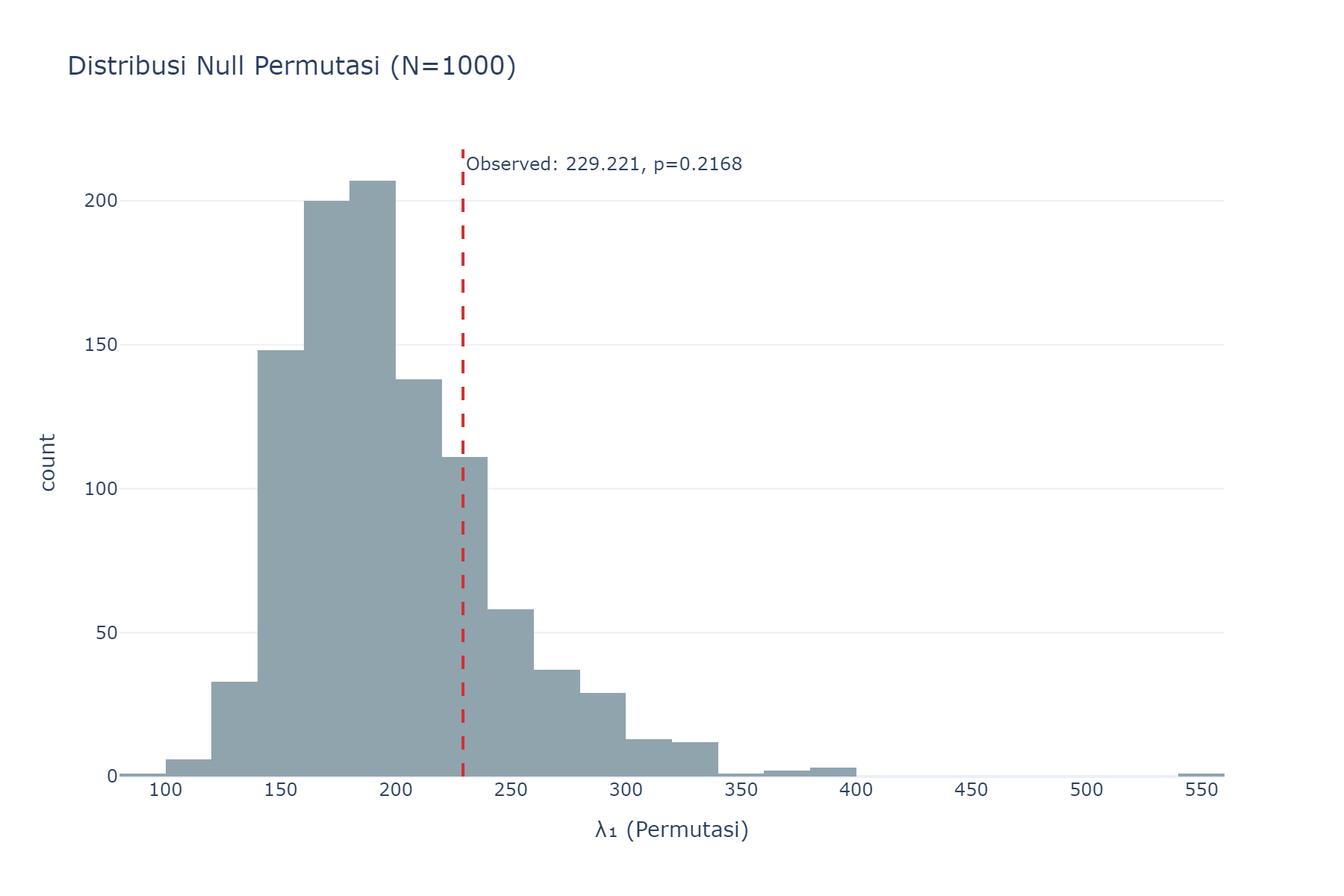
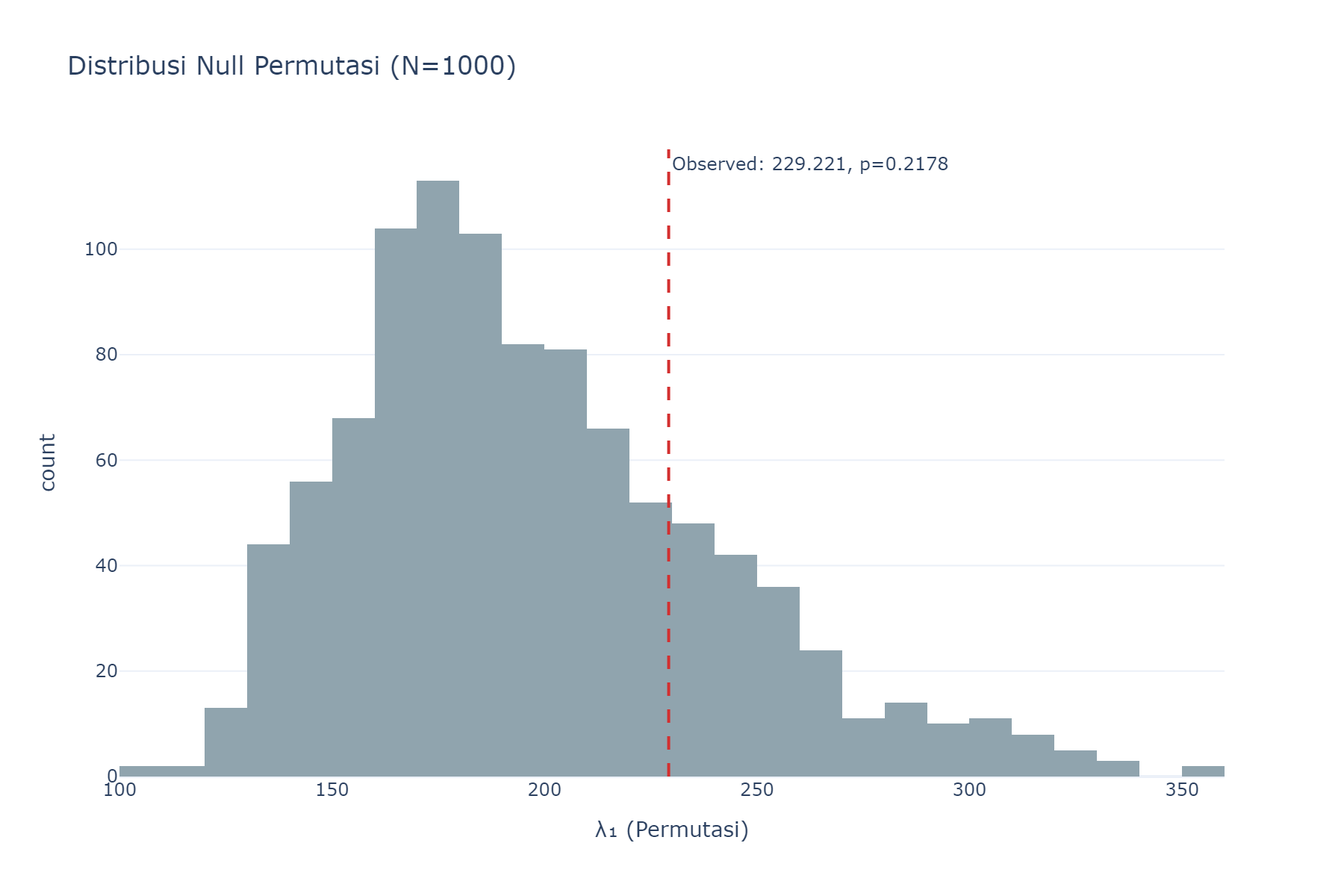
Fix descriptive cluster names

diff --git a/landing-page/public/output_real/output_table_deskriptif_2020.tex b/landing-page/public/output_real/output_table_deskriptif_2020.tex
@@ -4,19 +4,19 @@
 \hline
 \textbf{Variabel} & \textbf{N} & \textbf{Mean ($\mu$)} & \textbf{Std Dev ($\sigma$)} & \textbf{Min} & \textbf{Q1} & \textbf{Median} & \textbf{Q3} & \textbf{Max} & \textbf{Skew ($\gamma_1$)} & \textbf{Kurt ($\gamma_2$)} & \textbf{CV} \\
 \hline
-TPAK & 41 & 64.5890 & 3.8263 & 55.7400 & 61.9800 & 63.8100 & 66.5400 & 76.7900 & 0.7602 & 1.3035 & 5.9200 \\
-GK & 41 & 470618.29 & 123776.23 & 310437.00 & 362212.00 & 457954.00 & 547415.00 & 782731.00 & 0.6325 & -0.6175 & 26.3000 \\
-IPM & 41 & 72.8971 & 5.7902 & 63.9100 & 68.0800 & 71.7000 & 77.8300 & 84.7200 & 0.4383 & -0.9747 & 7.9400 \\
-AHH\_P & 41 & 73.4278 & 2.4925 & 66.5000 & 72.8700 & 74.0200 & 75.4200 & 76.7100 & -1.2048 & 1.1055 & 3.3900 \\
 PDRB\_ADHK & 41 & 90668.15 & 115779.62 & 3251.76 & 21970.41 & 38598.43 & 93480.39 & 449518.14 & 1.8010 & 2.1881 & 127.70 \\
-RLS & 41 & 8.9244 & 1.6521 & 6.3000 & 7.5200 & 8.6300 & 10.6300 & 11.8100 & 0.2849 & -1.2277 & 18.5100 \\
+TPT & 41 & 10.1232 & 2.1864 & 5.0800 & 8.9500 & 10.6800 & 11.5400 & 14.2900 & -0.4590 & -0.3509 & 21.6000 \\
 PPM & 41 & 7.6356 & 3.1440 & 2.2900 & 4.9400 & 7.6200 & 9.9800 & 14.8700 & 0.2597 & -0.7499 & 41.1800 \\
 AHH\_L & 41 & 69.6368 & 2.5761 & 62.6800 & 69.0300 & 70.2500 & 71.7200 & 73.2200 & -1.1209 & 0.8502 & 3.7000 \\
-GR & 41 & 0.3592 & 0.0362 & 0.2850 & 0.3360 & 0.3520 & 0.3810 & 0.4270 & 0.0668 & -0.7740 & 10.0700 \\
-JP & 41 & 1432347.14 & 1243018.59 & 433.76 & 332580.00 & 1226050.00 & 2434090.00 & 5409370.00 & 0.7879 & 0.6833 & 86.7800 \\
-TPT & 41 & 10.1232 & 2.1864 & 5.0800 & 8.9500 & 10.6800 & 11.5400 & 14.2900 & -0.4590 & -0.3509 & 21.6000 \\
-IPG & 41 & 89.9871 & 4.4168 & 79.0600 & 86.8100 & 90.9800 & 93.5300 & 96.1400 & -0.6283 & -0.2917 & 4.9100 \\
+IPM & 41 & 72.8971 & 5.7902 & 63.9100 & 68.0800 & 71.7000 & 77.8300 & 84.7200 & 0.4383 & -0.9747 & 7.9400 \\
+AHH\_P & 41 & 73.4278 & 2.4925 & 66.5000 & 72.8700 & 74.0200 & 75.4200 & 76.7100 & -1.2048 & 1.1055 & 3.3900 \\
 PKKP & 41 & 3.3263 & 1.3218 & 1.2600 & 2.1800 & 3.6000 & 4.2800 & 5.6400 & -0.0754 & -1.2654 & 39.7400 \\
+GR & 41 & 0.3592 & 0.0362 & 0.2850 & 0.3360 & 0.3520 & 0.3810 & 0.4270 & 0.0668 & -0.7740 & 10.0700 \\
+GK & 41 & 470618.29 & 123776.23 & 310437.00 & 362212.00 & 457954.00 & 547415.00 & 782731.00 & 0.6325 & -0.6175 & 26.3000 \\
+JP & 41 & 1432347.14 & 1243018.59 & 433.76 & 332580.00 & 1226050.00 & 2434090.00 & 5409370.00 & 0.7879 & 0.6833 & 86.7800 \\
+IPG & 41 & 89.9871 & 4.4168 & 79.0600 & 86.8100 & 90.9800 & 93.5300 & 96.1400 & -0.6283 & -0.2917 & 4.9100 \\
+TPAK & 41 & 64.5890 & 3.8263 & 55.7400 & 61.9800 & 63.8100 & 66.5400 & 76.7900 & 0.7602 & 1.3035 & 5.9200 \\
+RLS & 41 & 8.9244 & 1.6521 & 6.3000 & 7.5200 & 8.6300 & 10.6300 & 11.8100 & 0.2849 & -1.2277 & 18.5100 \\
 \hline
 \end{tabular}
 \end{adjustbox}

diff --git a/landing-page/public/output_real/output_table_deskriptif_2021.tex b/landing-page/public/output_real/output_table_deskriptif_2021.tex
@@ -4,19 +4,19 @@
 \hline
 \textbf{Variabel} & \textbf{N} & \textbf{Mean ($\mu$)} & \textbf{Std Dev ($\sigma$)} & \textbf{Min} & \textbf{Q1} & \textbf{Median} & \textbf{Q3} & \textbf{Max} & \textbf{Skew ($\gamma_1$)} & \textbf{Kurt ($\gamma_2$)} & \textbf{CV} \\
 \hline
-TPAK & 41 & 64.4712 & 3.1615 & 56.8600 & 62.5500 & 64.0700 & 65.7900 & 74.7500 & 0.7324 & 1.5994 & 4.9000 \\
-GK & 41 & 486788.61 & 125953.29 & 320050.00 & 378819.00 & 467248.00 & 570330.00 & 792684.00 & 0.5875 & -0.7418 & 25.8700 \\
-IPM & 41 & 73.1805 & 5.8237 & 64.0300 & 68.2900 & 72.1000 & 78.0600 & 84.9000 & 0.4213 & -0.9879 & 7.9600 \\
-AHH\_P & 41 & 73.5822 & 2.4979 & 66.6100 & 73.0800 & 74.2100 & 75.5200 & 76.8900 & -1.2313 & 1.1623 & 3.3900 \\
 PDRB\_ADHK & 41 & 155753.21 & 399617.71 & 3365.25 & 23275.78 & 46840.15 & 106413.70 & 2538923.00 & 5.3713 & 29.4361 & 256.57 \\
-RLS & 41 & 9.0273 & 1.6651 & 6.4100 & 7.5300 & 8.7700 & 10.7800 & 11.8200 & 0.2434 & -1.3084 & 18.4400 \\
+TPT & 41 & 9.1959 & 2.0599 & 3.2500 & 8.2300 & 9.3200 & 10.5800 & 13.0700 & -0.6333 & 0.4640 & 22.4000 \\
 PPM & 41 & 8.1639 & 3.2327 & 2.5700 & 5.3500 & 7.9700 & 10.7100 & 15.0600 & 0.1144 & -0.9312 & 39.6000 \\
 AHH\_L & 41 & 69.8390 & 2.6025 & 62.8200 & 69.2700 & 70.5000 & 71.9400 & 73.4800 & -1.1514 & 0.8882 & 3.7300 \\
-GR & 41 & 0.3647 & 0.0535 & 0.2450 & 0.3400 & 0.3630 & 0.3880 & 0.5150 & 0.3782 & 1.0149 & 14.6800 \\
-JP & 41 & 1447714.39 & 1257547.59 & 439.48 & 335810.00 & 1234830.00 & 2446687.00 & 5484150.00 & 0.7956 & 0.7128 & 86.8600 \\
-TPT & 41 & 9.1959 & 2.0599 & 3.2500 & 8.2300 & 9.3200 & 10.5800 & 13.0700 & -0.6333 & 0.4640 & 22.4000 \\
-IPG & 41 & 90.0432 & 4.4084 & 79.0700 & 86.9700 & 90.8700 & 93.6000 & 96.2800 & -0.6450 & -0.2436 & 4.9000 \\
+IPM & 41 & 73.1805 & 5.8237 & 64.0300 & 68.2900 & 72.1000 & 78.0600 & 84.9000 & 0.4213 & -0.9879 & 7.9600 \\
+AHH\_P & 41 & 73.5822 & 2.4979 & 66.6100 & 73.0800 & 74.2100 & 75.5200 & 76.8900 & -1.2313 & 1.1623 & 3.3900 \\
 PKKP & 41 & 3.8829 & 1.5390 & 1.5500 & 2.4600 & 3.8700 & 5.0000 & 7.1200 & 0.1816 & -1.1459 & 39.6400 \\
+GR & 41 & 0.3647 & 0.0535 & 0.2450 & 0.3400 & 0.3630 & 0.3880 & 0.5150 & 0.3782 & 1.0149 & 14.6800 \\
+GK & 41 & 486788.61 & 125953.29 & 320050.00 & 378819.00 & 467248.00 & 570330.00 & 792684.00 & 0.5875 & -0.7418 & 25.8700 \\
+JP & 41 & 1447714.39 & 1257547.59 & 439.48 & 335810.00 & 1234830.00 & 2446687.00 & 5484150.00 & 0.7956 & 0.7128 & 86.8600 \\
+IPG & 41 & 90.0432 & 4.4084 & 79.0700 & 86.9700 & 90.8700 & 93.6000 & 96.2800 & -0.6450 & -0.2436 & 4.9000 \\
+TPAK & 41 & 64.4712 & 3.1615 & 56.8600 & 62.5500 & 64.0700 & 65.7900 & 74.7500 & 0.7324 & 1.5994 & 4.9000 \\
+RLS & 41 & 9.0273 & 1.6651 & 6.4100 & 7.5300 & 8.7700 & 10.7800 & 11.8200 & 0.2434 & -1.3084 & 18.4400 \\
 \hline
 \end{tabular}
 \end{adjustbox}

diff --git a/landing-page/public/output_real/output_table_deskriptif_2022.tex b/landing-page/public/output_real/output_table_deskriptif_2022.tex
@@ -4,19 +4,19 @@
 \hline
 \textbf{Variabel} & \textbf{N} & \textbf{Mean ($\mu$)} & \textbf{Std Dev ($\sigma$)} & \textbf{Min} & \textbf{Q1} & \textbf{Median} & \textbf{Q3} & \textbf{Max} & \textbf{Skew ($\gamma_1$)} & \textbf{Kurt ($\gamma_2$)} & \textbf{CV} \\
 \hline
-TPAK & 41 & 65.7398 & 3.3700 & 58.6700 & 63.7600 & 65.4100 & 67.3900 & 79.9200 & 1.6307 & 5.9805 & 5.1300 \\
-GK & 41 & 512333.02 & 135320.99 & 335134.00 & 398884.00 & 485613.00 & 599514.00 & 842630.00 & 0.5993 & -0.7304 & 26.4100 \\
-IPM & 41 & 73.8166 & 5.7278 & 64.7100 & 69.0400 & 72.7900 & 78.7700 & 85.2100 & 0.4127 & -0.9878 & 7.7600 \\
-AHH\_P & 41 & 73.8912 & 2.4709 & 67.0300 & 73.3700 & 74.5000 & 75.8100 & 77.1800 & -1.2024 & 1.1051 & 3.3400 \\
 PDRB\_ADHK & 41 & 156900.90 & 377811.63 & 3516.57 & 24495.02 & 49292.98 & 112778.10 & 2383665.00 & 5.1936 & 27.9588 & 240.80 \\
-RLS & 41 & 9.1566 & 1.6423 & 6.5900 & 7.8300 & 8.9000 & 10.8200 & 11.8400 & 0.2314 & -1.3538 & 17.9400 \\
+TPT & 41 & 7.8156 & 2.0233 & 1.5600 & 6.9800 & 8.1000 & 8.8300 & 10.7800 & -0.9149 & 0.9909 & 25.8900 \\
 PPM & 41 & 7.8027 & 3.0997 & 2.5000 & 5.0100 & 7.7200 & 10.1400 & 14.1100 & 0.1383 & -0.9442 & 39.7300 \\
 AHH\_L & 41 & 70.0607 & 2.5716 & 63.1700 & 69.5000 & 70.6900 & 72.1400 & 73.7000 & -1.1122 & 0.8040 & 3.6700 \\
-GR & 41 & 0.3658 & 0.0618 & 0.2110 & 0.3180 & 0.3670 & 0.3940 & 0.5430 & 0.3696 & 0.8754 & 16.8800 \\
-JP & 41 & 1462414.00 & 1271595.59 & 445.06 & 338940.00 & 1243320.00 & 2458707.00 & 5556310.00 & 0.8032 & 0.7413 & 86.9500 \\
-TPT & 41 & 7.8156 & 2.0233 & 1.5600 & 6.9800 & 8.1000 & 8.8300 & 10.7800 & -0.9149 & 0.9909 & 25.8900 \\
-IPG & 41 & 90.3415 & 4.3112 & 79.6900 & 87.1700 & 90.9700 & 93.8400 & 96.4800 & -0.6361 & -0.2386 & 4.7700 \\
+IPM & 41 & 73.8166 & 5.7278 & 64.7100 & 69.0400 & 72.7900 & 78.7700 & 85.2100 & 0.4127 & -0.9878 & 7.7600 \\
+AHH\_P & 41 & 73.8912 & 2.4709 & 67.0300 & 73.3700 & 74.5000 & 75.8100 & 77.1800 & -1.2024 & 1.1051 & 3.3400 \\
 PKKP & 41 & 5.5502 & 2.4961 & 1.5000 & 3.4500 & 5.7700 & 7.4300 & 10.4500 & 0.0747 & -1.1068 & 44.9700 \\
+GR & 41 & 0.3658 & 0.0618 & 0.2110 & 0.3180 & 0.3670 & 0.3940 & 0.5430 & 0.3696 & 0.8754 & 16.8800 \\
+GK & 41 & 512333.02 & 135320.99 & 335134.00 & 398884.00 & 485613.00 & 599514.00 & 842630.00 & 0.5993 & -0.7304 & 26.4100 \\
+JP & 41 & 1462414.00 & 1271595.59 & 445.06 & 338940.00 & 1243320.00 & 2458707.00 & 5556310.00 & 0.8032 & 0.7413 & 86.9500 \\
+IPG & 41 & 90.3415 & 4.3112 & 79.6900 & 87.1700 & 90.9700 & 93.8400 & 96.4800 & -0.6361 & -0.2386 & 4.7700 \\
+TPAK & 41 & 65.7398 & 3.3700 & 58.6700 & 63.7600 & 65.4100 & 67.3900 & 79.9200 & 1.6307 & 5.9805 & 5.1300 \\
+RLS & 41 & 9.1566 & 1.6423 & 6.5900 & 7.8300 & 8.9000 & 10.8200 & 11.8400 & 0.2314 & -1.3538 & 17.9400 \\
 \hline
 \end{tabular}
 \end{adjustbox}

diff --git a/landing-page/public/output_real/output_table_deskriptif_2023.tex b/landing-page/public/output_real/output_table_deskriptif_2023.tex
@@ -4,19 +4,19 @@
 \hline
 \textbf{Variabel} & \textbf{N} & \textbf{Mean ($\mu$)} & \textbf{Std Dev ($\sigma$)} & \textbf{Min} & \textbf{Q1} & \textbf{Median} & \textbf{Q3} & \textbf{Max} & \textbf{Skew ($\gamma_1$)} & \textbf{Kurt ($\gamma_2$)} & \textbf{CV} \\
 \hline
-TPAK & 41 & 66.3559 & 3.6273 & 60.3300 & 63.9800 & 66.1600 & 67.9000 & 80.1500 & 1.3791 & 3.6110 & 5.4700 \\
-GK & 41 & 553569.61 & 143549.03 & 367681.00 & 426355.00 & 520713.00 & 657247.00 & 891580.00 & 0.5879 & -0.7939 & 25.9300 \\
-IPM & 41 & 74.4183 & 5.6976 & 65.2100 & 69.6100 & 73.3900 & 79.4600 & 86.0700 & 0.4201 & -0.9571 & 7.6600 \\
-AHH\_P & 41 & 74.3205 & 2.4367 & 67.5600 & 73.7800 & 74.9700 & 76.2000 & 77.4500 & -1.2365 & 1.1126 & 3.2800 \\
 PDRB\_ADHK & 41 & 104051.93 & 132473.27 & 3305.13 & 25655.25 & 44087.22 & 108569.80 & 506560.70 & 1.7652 & 2.0079 & 127.31 \\
-RLS & 41 & 9.2263 & 1.6469 & 6.6000 & 7.8900 & 8.9100 & 10.8400 & 11.8800 & 0.2655 & -1.3451 & 17.8500 \\
+TPT & 41 & 7.2041 & 1.7690 & 1.5200 & 6.5200 & 7.3300 & 8.1100 & 10.5200 & -0.9574 & 1.5426 & 24.5600 \\
 PPM & 41 & 7.4420 & 2.8862 & 2.3800 & 4.8500 & 7.2700 & 9.5200 & 13.1300 & 0.0826 & -0.9921 & 38.7800 \\
 AHH\_L & 41 & 70.4171 & 2.5132 & 63.7000 & 69.7900 & 70.9300 & 72.5000 & 74.1000 & -1.0287 & 0.7650 & 3.5700 \\
-GR & 41 & 0.3739 & 0.0552 & 0.2430 & 0.3420 & 0.3690 & 0.4280 & 0.4680 & -0.2663 & -0.4264 & 14.7600 \\
-JP & 41 & 1476700.92 & 1285310.11 & 450.51 & 341980.00 & 1251540.00 & 2470054.00 & 5627020.00 & 0.8107 & 0.7696 & 87.0400 \\
-TPT & 41 & 7.2041 & 1.7690 & 1.5200 & 6.5200 & 7.3300 & 8.1100 & 10.5200 & -0.9574 & 1.5426 & 24.5600 \\
-IPG & 41 & 90.5937 & 4.2094 & 80.3700 & 87.3100 & 91.2900 & 94.0300 & 97.1600 & -0.6001 & -0.2853 & 4.6500 \\
+IPM & 41 & 74.4183 & 5.6976 & 65.2100 & 69.6100 & 73.3900 & 79.4600 & 86.0700 & 0.4201 & -0.9571 & 7.6600 \\
+AHH\_P & 41 & 74.3205 & 2.4367 & 67.5600 & 73.7800 & 74.9700 & 76.2000 & 77.4500 & -1.2365 & 1.1126 & 3.2800 \\
 PKKP & 41 & 4.6354 & 1.9005 & 1.5800 & 2.9100 & 5.0700 & 5.9800 & 8.6500 & 0.0616 & -1.0247 & 41.0000 \\
+GR & 41 & 0.3739 & 0.0552 & 0.2430 & 0.3420 & 0.3690 & 0.4280 & 0.4680 & -0.2663 & -0.4264 & 14.7600 \\
+GK & 41 & 553569.61 & 143549.03 & 367681.00 & 426355.00 & 520713.00 & 657247.00 & 891580.00 & 0.5879 & -0.7939 & 25.9300 \\
+JP & 41 & 1476700.92 & 1285310.11 & 450.51 & 341980.00 & 1251540.00 & 2470054.00 & 5627020.00 & 0.8107 & 0.7696 & 87.0400 \\
+IPG & 41 & 90.5937 & 4.2094 & 80.3700 & 87.3100 & 91.2900 & 94.0300 & 97.1600 & -0.6001 & -0.2853 & 4.6500 \\
+TPAK & 41 & 66.3559 & 3.6273 & 60.3300 & 63.9800 & 66.1600 & 67.9000 & 80.1500 & 1.3791 & 3.6110 & 5.4700 \\
+RLS & 41 & 9.2263 & 1.6469 & 6.6000 & 7.8900 & 8.9100 & 10.8400 & 11.8800 & 0.2655 & -1.3451 & 17.8500 \\
 \hline
 \end{tabular}
 \end{adjustbox}

diff --git a/landing-page/public/output_real/output_table_deskriptif_2024.tex b/landing-page/public/output_real/output_table_deskriptif_2024.tex
@@ -4,19 +4,19 @@
 \hline
 \textbf{Variabel} & \textbf{N} & \textbf{Mean ($\mu$)} & \textbf{Std Dev ($\sigma$)} & \textbf{Min} & \textbf{Q1} & \textbf{Median} & \textbf{Q3} & \textbf{Max} & \textbf{Skew ($\gamma_1$)} & \textbf{Kurt ($\gamma_2$)} & \textbf{CV} \\
 \hline
-TPAK & 41 & 67.4144 & 3.6875 & 58.1300 & 65.5800 & 67.2200 & 69.1000 & 80.1200 & 0.6115 & 2.5208 & 5.4700 \\
-GK & 41 & 583233.61 & 148452.42 & 393464.00 & 455636.00 & 547912.00 & 685071.00 & 928278.00 & 0.5936 & -0.7922 & 25.4500 \\
-IPM & 41 & 74.9951 & 5.6926 & 65.8600 & 70.0300 & 73.9900 & 80.0200 & 86.9400 & 0.4290 & -0.9383 & 7.5900 \\
-AHH\_P & 41 & 74.5900 & 2.4500 & 67.7800 & 74.0400 & 75.2900 & 76.4200 & 77.7500 & -1.2313 & 1.0489 & 3.2800 \\
 PDRB\_ADHK & 41 & 109134.55 & 139071.46 & 3268.50 & 26863.08 & 46270.92 & 113998.20 & 532606.90 & 1.7693 & 2.0301 & 127.43 \\
-RLS & 41 & 9.2837 & 1.6734 & 6.6100 & 7.9000 & 8.9300 & 10.8500 & 11.9900 & 0.2552 & -1.3503 & 18.0300 \\
+TPT & 41 & 6.5522 & 1.5219 & 1.5800 & 6.0800 & 6.4900 & 7.4000 & 9.1800 & -0.9517 & 1.6482 & 23.2300 \\
 PPM & 41 & 7.2541 & 2.8854 & 2.3400 & 4.6300 & 7.0500 & 9.4900 & 13.0300 & 0.1015 & -1.0378 & 39.7800 \\
 AHH\_L & 41 & 70.6402 & 2.5182 & 63.9000 & 70.0400 & 71.1000 & 72.7200 & 74.2900 & -0.9979 & 0.7233 & 3.5600 \\
-GR & 41 & 0.3667 & 0.0568 & 0.2450 & 0.3250 & 0.3670 & 0.4240 & 0.4770 & -0.3164 & -0.6547 & 15.4900 \\
-JP & 41 & 1504586.38 & 1309156.50 & 455.62 & 344850.00 & 1259230.00 & 2528160.00 & 5682300.00 & 0.7875 & 0.6512 & 87.0100 \\
-TPT & 41 & 6.5522 & 1.5219 & 1.5800 & 6.0800 & 6.4900 & 7.4000 & 9.1800 & -0.9517 & 1.6482 & 23.2300 \\
-IPG & 41 & 90.7871 & 4.1382 & 81.0200 & 87.5500 & 91.5500 & 94.2300 & 97.3000 & -0.5647 & -0.3873 & 4.5600 \\
+IPM & 41 & 74.9951 & 5.6926 & 65.8600 & 70.0300 & 73.9900 & 80.0200 & 86.9400 & 0.4290 & -0.9383 & 7.5900 \\
+AHH\_P & 41 & 74.5900 & 2.4500 & 67.7800 & 74.0400 & 75.2900 & 76.4200 & 77.7500 & -1.2313 & 1.0489 & 3.2800 \\
 PKKP & 41 & 4.6907 & 1.4985 & 1.8900 & 3.5500 & 5.2200 & 5.7800 & 7.9800 & -0.4708 & -0.6142 & 31.9500 \\
+GR & 41 & 0.3667 & 0.0568 & 0.2450 & 0.3250 & 0.3670 & 0.4240 & 0.4770 & -0.3164 & -0.6547 & 15.4900 \\
+GK & 41 & 583233.61 & 148452.42 & 393464.00 & 455636.00 & 547912.00 & 685071.00 & 928278.00 & 0.5936 & -0.7922 & 25.4500 \\
+JP & 41 & 1504586.38 & 1309156.50 & 455.62 & 344850.00 & 1259230.00 & 2528160.00 & 5682300.00 & 0.7875 & 0.6512 & 87.0100 \\
+IPG & 41 & 90.7871 & 4.1382 & 81.0200 & 87.5500 & 91.5500 & 94.2300 & 97.3000 & -0.5647 & -0.3873 & 4.5600 \\
+TPAK & 41 & 67.4144 & 3.6875 & 58.1300 & 65.5800 & 67.2200 & 69.1000 & 80.1200 & 0.6115 & 2.5208 & 5.4700 \\
+RLS & 41 & 9.2837 & 1.6734 & 6.6100 & 7.9000 & 8.9300 & 10.8500 & 11.9900 & 0.2552 & -1.3503 & 18.0300 \\
 \hline
 \end{tabular}
 \end{adjustbox}

diff --git a/landing-page/public/output_real/output_table_descriptive_2020.tex b/landing-page/public/output_real/output_table_descriptive_2020.tex
@@ -6,18 +6,18 @@
 \hline
 \textbf{Variabel} & \textbf{N} & \textbf{Mean ($\mu$)} & \textbf{Std Dev ($\sigma$)} & \textbf{Min} & \textbf{Q1} & \textbf{Median} & \textbf{Q3} & \textbf{Max} & \textbf{Skewness ($\gamma_1$)} & \textbf{Kurtosis ($\gamma_2$)} & \textbf{CV (\%)} \\
 \hline
-TPAK & 41.0000 & 64.3963 & 3.0864 & 55.7400 & 61.9800 & 63.8100 & 66.5400 & 76.7900 & 0.9120 & 1.1513 & 4.7928 \\
-GK & 41.0000 & 466641.1422 & 124541.5757 & 310437.0000 & 362212.0000 & 457954.0000 & 547415.0000 & 782731.0000 & 0.7987 & -0.2561 & 26.6889 \\
-IPM & 41.0000 & 73.3691 & 6.1283 & 63.9100 & 68.0800 & 71.7000 & 77.8300 & 84.7200 & 0.4581 & -1.2646 & 8.3528 \\
-AHH\_P & 41.0000 & 74.4260 & 1.4509 & 66.5000 & 72.8700 & 74.0200 & 75.4200 & 76.7100 & -0.2214 & -1.0047 & 1.9494 \\
 PDRB\_ADHK & 41.0000 & 127551.8992 & 121576.4163 & 3251.7600 & 21970.4100 & 38598.4300 & 93480.3900 & 449518.1400 & 1.0614 & -0.0241 & 95.3153 \\
-RLS & 41.0000 & 8.9365 & 1.6757 & 6.3000 & 7.5200 & 8.6300 & 10.6300 & 11.8100 & 0.3381 & -1.3281 & 18.7511 \\
+TPT & 41.0000 & 10.5483 & 2.0460 & 5.0800 & 8.9500 & 10.6800 & 11.5400 & 14.2900 & -0.3120 & 0.2039 & 19.3966 \\
 PPM & 41.0000 & 7.4377 & 2.8736 & 2.2900 & 4.9400 & 7.6200 & 9.9800 & 14.8700 & 0.1319 & -1.0326 & 38.6353 \\
 AHH\_L & 41.0000 & 70.6783 & 1.5313 & 62.6800 & 69.0300 & 70.2500 & 71.7200 & 73.2200 & -0.1933 & -1.0089 & 2.1666 \\
-GR & 41.0000 & 0.3683 & 0.0298 & 0.2850 & 0.3360 & 0.3520 & 0.3810 & 0.4270 & 0.3194 & -0.9263 & 8.0785 \\
-TPT & 41.0000 & 10.5483 & 2.0460 & 5.0800 & 8.9500 & 10.6800 & 11.5400 & 14.2900 & -0.3120 & 0.2039 & 19.3966 \\
-IPG & 41.0000 & 89.9041 & 4.4601 & 79.0600 & 86.8100 & 90.9800 & 93.5300 & 96.1400 & -0.4414 & -0.6333 & 4.9610 \\
+IPM & 41.0000 & 73.3691 & 6.1283 & 63.9100 & 68.0800 & 71.7000 & 77.8300 & 84.7200 & 0.4581 & -1.2646 & 8.3528 \\
+AHH\_P & 41.0000 & 74.4260 & 1.4509 & 66.5000 & 72.8700 & 74.0200 & 75.4200 & 76.7100 & -0.2214 & -1.0047 & 1.9494 \\
 PKKP & 41.0000 & 3.5752 & 1.3479 & 1.2600 & 2.1800 & 3.6000 & 4.2800 & 5.6400 & -0.3180 & -1.2594 & 37.7026 \\
+GR & 41.0000 & 0.3683 & 0.0298 & 0.2850 & 0.3360 & 0.3520 & 0.3810 & 0.4270 & 0.3194 & -0.9263 & 8.0785 \\
+GK & 41.0000 & 466641.1422 & 124541.5757 & 310437.0000 & 362212.0000 & 457954.0000 & 547415.0000 & 782731.0000 & 0.7987 & -0.2561 & 26.6889 \\
+IPG & 41.0000 & 89.9041 & 4.4601 & 79.0600 & 86.8100 & 90.9800 & 93.5300 & 96.1400 & -0.4414 & -0.6333 & 4.9610 \\
+TPAK & 41.0000 & 64.3963 & 3.0864 & 55.7400 & 61.9800 & 63.8100 & 66.5400 & 76.7900 & 0.9120 & 1.1513 & 4.7928 \\
+RLS & 41.0000 & 8.9365 & 1.6757 & 6.3000 & 7.5200 & 8.6300 & 10.6300 & 11.8100 & 0.3381 & -1.3281 & 18.7511 \\
 \hline
 \end{tabular}
 \end{adjustbox}

diff --git a/landing-page/public/output_real/output_table_descriptive_2021.tex b/landing-page/public/output_real/output_table_descriptive_2021.tex
@@ -6,18 +6,18 @@
 \hline
 \textbf{Variabel} & \textbf{N} & \textbf{Mean ($\mu$)} & \textbf{Std Dev ($\sigma$)} & \textbf{Min} & \textbf{Q1} & \textbf{Median} & \textbf{Q3} & \textbf{Max} & \textbf{Skewness ($\gamma_1$)} & \textbf{Kurtosis ($\gamma_2$)} & \textbf{CV (\%)} \\
 \hline
-TPAK & 41.0000 & 64.5460 & 2.6785 & 56.8600 & 62.5500 & 64.0700 & 65.7900 & 74.7500 & 0.5602 & 0.6232 & 4.1498 \\
-GK & 41.0000 & 481874.1196 & 127432.0408 & 320050.0000 & 378819.0000 & 467248.0000 & 570330.0000 & 792684.0000 & 0.7409 & -0.4236 & 26.4451 \\
-IPM & 41.0000 & 73.6634 & 6.1627 & 64.0300 & 68.2900 & 72.1000 & 78.0600 & 84.9000 & 0.4501 & -1.2813 & 8.3660 \\
-AHH\_P & 41.0000 & 74.5945 & 1.4222 & 66.6100 & 73.0800 & 74.2100 & 75.5200 & 76.8900 & -0.2273 & -0.9530 & 1.9066 \\
 PDRB\_ADHK & 41.0000 & 147302.9028 & 223203.4576 & 3365.2500 & 23275.7800 & 46840.1500 & 106413.7000 & 2538923.0000 & 7.4025 & 75.2468 & 151.5269 \\
-RLS & 41.0000 & 9.0261 & 1.6866 & 6.4100 & 7.5300 & 8.7700 & 10.7800 & 11.8200 & 0.3335 & -1.4025 & 18.6856 \\
+TPT & 41.0000 & 9.5825 & 1.9016 & 3.2500 & 8.2300 & 9.3200 & 10.5800 & 13.0700 & -0.5451 & 0.1162 & 19.8443 \\
 PPM & 41.0000 & 7.9070 & 3.0483 & 2.5700 & 5.3500 & 7.9700 & 10.7100 & 15.0600 & 0.0662 & -1.1556 & 38.5526 \\
 AHH\_L & 41.0000 & 70.9097 & 1.4999 & 62.8200 & 69.2700 & 70.5000 & 71.9400 & 73.4800 & -0.1931 & -0.9426 & 2.1152 \\
-GR & 41.0000 & 0.3751 & 0.0392 & 0.2450 & 0.3400 & 0.3630 & 0.3880 & 0.5150 & 1.3619 & 3.1272 & 10.4530 \\
-TPT & 41.0000 & 9.5825 & 1.9016 & 3.2500 & 8.2300 & 9.3200 & 10.5800 & 13.0700 & -0.5451 & 0.1162 & 19.8443 \\
-IPG & 41.0000 & 89.9773 & 4.4582 & 79.0700 & 86.9700 & 90.8700 & 93.6000 & 96.2800 & -0.4685 & -0.5687 & 4.9548 \\
+IPM & 41.0000 & 73.6634 & 6.1627 & 64.0300 & 68.2900 & 72.1000 & 78.0600 & 84.9000 & 0.4501 & -1.2813 & 8.3660 \\
+AHH\_P & 41.0000 & 74.5945 & 1.4222 & 66.6100 & 73.0800 & 74.2100 & 75.5200 & 76.8900 & -0.2273 & -0.9530 & 1.9066 \\
 PKKP & 41.0000 & 4.0661 & 1.5918 & 1.5500 & 2.4600 & 3.8700 & 5.0000 & 7.1200 & -0.0772 & -1.2089 & 39.1481 \\
+GR & 41.0000 & 0.3751 & 0.0392 & 0.2450 & 0.3400 & 0.3630 & 0.3880 & 0.5150 & 1.3619 & 3.1272 & 10.4530 \\
+GK & 41.0000 & 481874.1196 & 127432.0408 & 320050.0000 & 378819.0000 & 467248.0000 & 570330.0000 & 792684.0000 & 0.7409 & -0.4236 & 26.4451 \\
+IPG & 41.0000 & 89.9773 & 4.4582 & 79.0700 & 86.9700 & 90.8700 & 93.6000 & 96.2800 & -0.4685 & -0.5687 & 4.9548 \\
+TPAK & 41.0000 & 64.5460 & 2.6785 & 56.8600 & 62.5500 & 64.0700 & 65.7900 & 74.7500 & 0.5602 & 0.6232 & 4.1498 \\
+RLS & 41.0000 & 9.0261 & 1.6866 & 6.4100 & 7.5300 & 8.7700 & 10.7800 & 11.8200 & 0.3335 & -1.4025 & 18.6856 \\
 \hline
 \end{tabular}
 \end{adjustbox}

diff --git a/landing-page/public/output_real/output_table_descriptive_2022.tex b/landing-page/public/output_real/output_table_descriptive_2022.tex
@@ -6,18 +6,18 @@
 \hline
 \textbf{Variabel} & \textbf{N} & \textbf{Mean ($\mu$)} & \textbf{Std Dev ($\sigma$)} & \textbf{Min} & \textbf{Q1} & \textbf{Median} & \textbf{Q3} & \textbf{Max} & \textbf{Skewness ($\gamma_1$)} & \textbf{Kurtosis ($\gamma_2$)} & \textbf{CV (\%)} \\
 \hline
-TPAK & 41.0000 & 65.6634 & 2.7522 & 58.6700 & 63.7600 & 65.4100 & 67.3900 & 79.9200 & 1.1471 & 3.4184 & 4.1914 \\
-GK & 41.0000 & 506904.5159 & 136958.6533 & 335134.0000 & 398884.0000 & 485613.0000 & 599514.0000 & 842630.0000 & 0.7473 & -0.4132 & 27.0186 \\
-IPM & 41.0000 & 74.2928 & 6.0717 & 64.7100 & 69.0400 & 72.7900 & 78.7700 & 85.2100 & 0.4440 & -1.2857 & 8.1726 \\
-AHH\_P & 41.0000 & 74.8870 & 1.4263 & 67.0300 & 73.3700 & 74.5000 & 75.8100 & 77.1800 & -0.2081 & -0.9385 & 1.9045 \\
 PDRB\_ADHK & 41.0000 & 156255.1994 & 230470.7147 & 3516.5700 & 24495.0200 & 49292.9800 & 112778.1000 & 2383665.0000 & 6.5649 & 59.5052 & 147.4963 \\
-RLS & 41.0000 & 9.1424 & 1.6645 & 6.5900 & 7.8300 & 8.9000 & 10.8200 & 11.8400 & 0.3440 & -1.4347 & 18.2058 \\
+TPT & 41.0000 & 8.0835 & 1.8860 & 1.5600 & 6.9800 & 8.1000 & 8.8300 & 10.7800 & -0.7024 & 0.3867 & 23.3310 \\
 PPM & 41.0000 & 7.6328 & 2.9381 & 2.5000 & 5.0100 & 7.7200 & 10.1400 & 14.1100 & 0.1134 & -1.1199 & 38.4925 \\
 AHH\_L & 41.0000 & 71.1080 & 1.5152 & 63.1700 & 69.5000 & 70.6900 & 72.1400 & 73.7000 & -0.1740 & -0.9630 & 2.1308 \\
-GR & 41.0000 & 0.3777 & 0.0513 & 0.2110 & 0.3180 & 0.3670 & 0.3940 & 0.5430 & 0.8683 & 1.5643 & 13.5826 \\
-TPT & 41.0000 & 8.0835 & 1.8860 & 1.5600 & 6.9800 & 8.1000 & 8.8300 & 10.7800 & -0.7024 & 0.3867 & 23.3310 \\
-IPG & 41.0000 & 90.3243 & 4.3445 & 79.6900 & 87.1700 & 90.9700 & 93.8400 & 96.4800 & -0.4587 & -0.5845 & 4.8099 \\
+IPM & 41.0000 & 74.2928 & 6.0717 & 64.7100 & 69.0400 & 72.7900 & 78.7700 & 85.2100 & 0.4440 & -1.2857 & 8.1726 \\
+AHH\_P & 41.0000 & 74.8870 & 1.4263 & 67.0300 & 73.3700 & 74.5000 & 75.8100 & 77.1800 & -0.2081 & -0.9385 & 1.9045 \\
 PKKP & 41.0000 & 6.2171 & 2.2700 & 1.5000 & 3.4500 & 5.7700 & 7.4300 & 10.4500 & -0.1439 & -1.0003 & 36.5125 \\
+GR & 41.0000 & 0.3777 & 0.0513 & 0.2110 & 0.3180 & 0.3670 & 0.3940 & 0.5430 & 0.8683 & 1.5643 & 13.5826 \\
+GK & 41.0000 & 506904.5159 & 136958.6533 & 335134.0000 & 398884.0000 & 485613.0000 & 599514.0000 & 842630.0000 & 0.7473 & -0.4132 & 27.0186 \\
+IPG & 41.0000 & 90.3243 & 4.3445 & 79.6900 & 87.1700 & 90.9700 & 93.8400 & 96.4800 & -0.4587 & -0.5845 & 4.8099 \\
+TPAK & 41.0000 & 65.6634 & 2.7522 & 58.6700 & 63.7600 & 65.4100 & 67.3900 & 79.9200 & 1.1471 & 3.4184 & 4.1914 \\
+RLS & 41.0000 & 9.1424 & 1.6645 & 6.5900 & 7.8300 & 8.9000 & 10.8200 & 11.8400 & 0.3440 & -1.4347 & 18.2058 \\
 \hline
 \end{tabular}
 \end{adjustbox}

diff --git a/landing-page/public/output_real/output_table_descriptive_2023.tex b/landing-page/public/output_real/output_table_descriptive_2023.tex
@@ -6,18 +6,18 @@
 \hline
 \textbf{Variabel} & \textbf{N} & \textbf{Mean ($\mu$)} & \textbf{Std Dev ($\sigma$)} & \textbf{Min} & \textbf{Q1} & \textbf{Median} & \textbf{Q3} & \textbf{Max} & \textbf{Skewness ($\gamma_1$)} & \textbf{Kurtosis ($\gamma_2$)} & \textbf{CV (\%)} \\
 \hline
-TPAK & 41.0000 & 66.2687 & 2.6146 & 60.3300 & 63.9800 & 66.1600 & 67.9000 & 80.1500 & 1.5148 & 4.6913 & 3.9455 \\
-GK & 41.0000 & 546991.0678 & 145480.9468 & 367681.0000 & 426355.0000 & 520713.0000 & 657247.0000 & 891580.0000 & 0.7266 & -0.5194 & 26.5966 \\
-IPM & 41.0000 & 74.9222 & 6.0304 & 65.2100 & 69.6100 & 73.3900 & 79.4600 & 86.0700 & 0.4643 & -1.2549 & 8.0489 \\
-AHH\_P & 41.0000 & 75.2792 & 1.4013 & 67.5600 & 73.7800 & 74.9700 & 76.2000 & 77.4500 & -0.3221 & -0.8305 & 1.8614 \\
 PDRB\_ADHK & 41.0000 & 146540.6221 & 139374.5251 & 3305.1300 & 25655.2500 & 44087.2200 & 108569.8000 & 506560.7000 & 1.0309 & -0.1394 & 95.1098 \\
-RLS & 41.0000 & 9.2294 & 1.6659 & 6.6000 & 7.8900 & 8.9100 & 10.8400 & 11.8800 & 0.3964 & -1.4156 & 18.0499 \\
+TPT & 41.0000 & 7.3030 & 1.4843 & 1.5200 & 6.5200 & 7.3300 & 8.1100 & 10.5200 & -1.0522 & 1.5934 & 20.3253 \\
 PPM & 41.0000 & 7.2309 & 2.7873 & 2.3800 & 4.8500 & 7.2700 & 9.5200 & 13.1300 & 0.0925 & -1.1367 & 38.5468 \\
 AHH\_L & 41.0000 & 71.4272 & 1.5627 & 63.7000 & 69.7900 & 70.9300 & 72.5000 & 74.1000 & -0.1098 & -1.0416 & 2.1878 \\
-GR & 41.0000 & 0.3855 & 0.0391 & 0.2430 & 0.3420 & 0.3690 & 0.4280 & 0.4680 & 0.2706 & -0.9491 & 10.1316 \\
-TPT & 41.0000 & 7.3030 & 1.4843 & 1.5200 & 6.5200 & 7.3300 & 8.1100 & 10.5200 & -1.0522 & 1.5934 & 20.3253 \\
-IPG & 41.0000 & 90.5875 & 4.2237 & 80.3700 & 87.3100 & 91.2900 & 94.0300 & 97.1600 & -0.4360 & -0.5883 & 4.6626 \\
+IPM & 41.0000 & 74.9222 & 6.0304 & 65.2100 & 69.6100 & 73.3900 & 79.4600 & 86.0700 & 0.4643 & -1.2549 & 8.0489 \\
+AHH\_P & 41.0000 & 75.2792 & 1.4013 & 67.5600 & 73.7800 & 74.9700 & 76.2000 & 77.4500 & -0.3221 & -0.8305 & 1.8614 \\
 PKKP & 41.0000 & 4.9461 & 1.8139 & 1.5800 & 2.9100 & 5.0700 & 5.9800 & 8.6500 & -0.1101 & -0.8659 & 36.6731 \\
+GR & 41.0000 & 0.3855 & 0.0391 & 0.2430 & 0.3420 & 0.3690 & 0.4280 & 0.4680 & 0.2706 & -0.9491 & 10.1316 \\
+GK & 41.0000 & 546991.0678 & 145480.9468 & 367681.0000 & 426355.0000 & 520713.0000 & 657247.0000 & 891580.0000 & 0.7266 & -0.5194 & 26.5966 \\
+IPG & 41.0000 & 90.5875 & 4.2237 & 80.3700 & 87.3100 & 91.2900 & 94.0300 & 97.1600 & -0.4360 & -0.5883 & 4.6626 \\
+TPAK & 41.0000 & 66.2687 & 2.6146 & 60.3300 & 63.9800 & 66.1600 & 67.9000 & 80.1500 & 1.5148 & 4.6913 & 3.9455 \\
+RLS & 41.0000 & 9.2294 & 1.6659 & 6.6000 & 7.8900 & 8.9100 & 10.8400 & 11.8800 & 0.3964 & -1.4156 & 18.0499 \\
 \hline
 \end{tabular}
 \end{adjustbox}

diff --git a/landing-page/public/output_real/output_table_descriptive_2024.tex b/landing-page/public/output_real/output_table_descriptive_2024.tex
@@ -6,18 +6,18 @@
 \hline
 \textbf{Variabel} & \textbf{N} & \textbf{Mean ($\mu$)} & \textbf{Std Dev ($\sigma$)} & \textbf{Min} & \textbf{Q1} & \textbf{Median} & \textbf{Q3} & \textbf{Max} & \textbf{Skewness ($\gamma_1$)} & \textbf{Kurtosis ($\gamma_2$)} & \textbf{CV (\%)} \\
 \hline
-TPAK & 41.0000 & 67.2505 & 2.7374 & 58.1300 & 65.5800 & 67.2200 & 69.1000 & 80.1200 & 0.9558 & 2.1844 & 4.0704 \\
-GK & 41.0000 & 577471.1318 & 149783.3900 & 393464.0000 & 455636.0000 & 547912.0000 & 685071.0000 & 928278.0000 & 0.7234 & -0.5208 & 25.9378 \\
-IPM & 41.0000 & 75.4931 & 6.0267 & 65.8600 & 70.0300 & 73.9900 & 80.0200 & 86.9400 & 0.4759 & -1.2326 & 7.9831 \\
-AHH\_P & 41.0000 & 75.5441 & 1.4103 & 67.7800 & 74.0400 & 75.2900 & 76.4200 & 77.7500 & -0.3871 & -0.7588 & 1.8669 \\
 PDRB\_ADHK & 41.0000 & 153753.0696 & 146285.5663 & 3268.5000 & 26863.0800 & 46270.9200 & 113998.2000 & 532606.9000 & 1.0344 & -0.1249 & 95.1432 \\
-RLS & 41.0000 & 9.2797 & 1.6940 & 6.6100 & 7.9000 & 8.9300 & 10.8500 & 11.9900 & 0.4001 & -1.4091 & 18.2545 \\
+TPT & 41.0000 & 6.6814 & 1.2588 & 1.5800 & 6.0800 & 6.4900 & 7.4000 & 9.1800 & -1.0610 & 2.0911 & 18.8402 \\
 PPM & 41.0000 & 7.0890 & 2.7650 & 2.3400 & 4.6300 & 7.0500 & 9.4900 & 13.0300 & 0.0995 & -1.1818 & 39.0038 \\
 AHH\_L & 41.0000 & 71.6530 & 1.5806 & 63.9000 & 70.0400 & 71.1000 & 72.7200 & 74.2900 & -0.0969 & -1.0465 & 2.2059 \\
-GR & 41.0000 & 0.3826 & 0.0413 & 0.2450 & 0.3250 & 0.3670 & 0.4240 & 0.4770 & -0.0610 & -0.8460 & 10.8072 \\
-TPT & 41.0000 & 6.6814 & 1.2588 & 1.5800 & 6.0800 & 6.4900 & 7.4000 & 9.1800 & -1.0610 & 2.0911 & 18.8402 \\
-IPG & 41.0000 & 90.7719 & 4.1592 & 81.0200 & 87.5500 & 91.5500 & 94.2300 & 97.3000 & -0.4002 & -0.6862 & 4.5820 \\
+IPM & 41.0000 & 75.4931 & 6.0267 & 65.8600 & 70.0300 & 73.9900 & 80.0200 & 86.9400 & 0.4759 & -1.2326 & 7.9831 \\
+AHH\_P & 41.0000 & 75.5441 & 1.4103 & 67.7800 & 74.0400 & 75.2900 & 76.4200 & 77.7500 & -0.3871 & -0.7588 & 1.8669 \\
 PKKP & 41.0000 & 5.1761 & 0.9776 & 1.8900 & 3.5500 & 5.2200 & 5.7800 & 7.9800 & -0.7237 & 1.4529 & 18.8867 \\
+GR & 41.0000 & 0.3826 & 0.0413 & 0.2450 & 0.3250 & 0.3670 & 0.4240 & 0.4770 & -0.0610 & -0.8460 & 10.8072 \\
+GK & 41.0000 & 577471.1318 & 149783.3900 & 393464.0000 & 455636.0000 & 547912.0000 & 685071.0000 & 928278.0000 & 0.7234 & -0.5208 & 25.9378 \\
+IPG & 41.0000 & 90.7719 & 4.1592 & 81.0200 & 87.5500 & 91.5500 & 94.2300 & 97.3000 & -0.4002 & -0.6862 & 4.5820 \\
+TPAK & 41.0000 & 67.2505 & 2.7374 & 58.1300 & 65.5800 & 67.2200 & 69.1000 & 80.1200 & 0.9558 & 2.1844 & 4.0704 \\
+RLS & 41.0000 & 9.2797 & 1.6940 & 6.6100 & 7.9000 & 8.9300 & 10.8500 & 11.9900 & 0.4001 & -1.4091 & 18.2545 \\
 \hline
 \end{tabular}
 \end{adjustbox}

diff --git a/landing-page/public/output_real/output_table_cluster_members.tex b/landing-page/public/output_real/output_table_cluster_members.tex
@@ -6,47 +6,47 @@
 \hline
 \textbf{Kabupaten/Kota} & \textbf{Klaster Trajektori} \\
 \hline
-Kep. Seribu & 1 \\
-Kota Jakarta Selatan & 3 \\
-Kota Jakarta Timur & 3 \\
-Kota Jakarta Pusat & 3 \\
-Kota Jakarta Barat & 3 \\
-Kota Jakarta Utara & 3 \\
-Bogor & 2 \\
-Sukabumi & 2 \\
-Cianjur & 1 \\
-Bandung & 2 \\
-Garut & 1 \\
-Tasikmalaya & 1 \\
-Ciamis & 1 \\
-Kuningan & 2 \\
-Cirebon & 2 \\
-Majalengka & 1 \\
-Sumedang & 2 \\
-Indramayu & 1 \\
-Subang & 2 \\
-Purwakarta & 2 \\
-Karawang & 2 \\
-Bekasi & 3 \\
-Bandung Barat & 2 \\
-Pangandaran & 1 \\
-Kota Bogor & 3 \\
-Kota Sukabumi & 3 \\
-Kota Bandung & 3 \\
-Kota Cirebon & 2 \\
-Kota Bekasi & 3 \\
-Kota Depok & 3 \\
-Kota Cimahi & 3 \\
-Kota Tasikmalaya & 2 \\
-Kota Banjar & 1 \\
-Pandeglang & 1 \\
-Lebak & 1 \\
-Tangerang & 2 \\
-Serang & 1 \\
-Kota Tangerang & 3 \\
-Kota Cilegon & 2 \\
-Kota Serang & 2 \\
-Kota Tangerang Selatan & 3 \\
+Kep. Seribu & Klaster 1 (Rendah) \\
+Kota Jakarta Selatan & Klaster 3 (Tinggi) \\
+Kota Jakarta Timur & Klaster 3 (Tinggi) \\
+Kota Jakarta Pusat & Klaster 3 (Tinggi) \\
+Kota Jakarta Barat & Klaster 3 (Tinggi) \\
+Kota Jakarta Utara & Klaster 3 (Tinggi) \\
+Bogor & Klaster 2 (Sedang) \\
+Sukabumi & Klaster 2 (Sedang) \\
+Cianjur & Klaster 1 (Rendah) \\
+Bandung & Klaster 2 (Sedang) \\
+Garut & Klaster 1 (Rendah) \\
+Tasikmalaya & Klaster 1 (Rendah) \\
+Ciamis & Klaster 1 (Rendah) \\
+Kuningan & Klaster 2 (Sedang) \\
+Cirebon & Klaster 2 (Sedang) \\
+Majalengka & Klaster 1 (Rendah) \\
+Sumedang & Klaster 2 (Sedang) \\
+Indramayu & Klaster 1 (Rendah) \\
+Subang & Klaster 2 (Sedang) \\
+Purwakarta & Klaster 2 (Sedang) \\
+Karawang & Klaster 2 (Sedang) \\
+Bekasi & Klaster 3 (Tinggi) \\
+Bandung Barat & Klaster 2 (Sedang) \\
+Pangandaran & Klaster 1 (Rendah) \\
+Kota Bogor & Klaster 3 (Tinggi) \\
+Kota Sukabumi & Klaster 3 (Tinggi) \\
+Kota Bandung & Klaster 3 (Tinggi) \\
+Kota Cirebon & Klaster 2 (Sedang) \\
+Kota Bekasi & Klaster 3 (Tinggi) \\
+Kota Depok & Klaster 3 (Tinggi) \\
+Kota Cimahi & Klaster 3 (Tinggi) \\
+Kota Tasikmalaya & Klaster 2 (Sedang) \\
+Kota Banjar & Klaster 1 (Rendah) \\
+Pandeglang & Klaster 1 (Rendah) \\
+Lebak & Klaster 1 (Rendah) \\
+Tangerang & Klaster 2 (Sedang) \\
+Serang & Klaster 1 (Rendah) \\
+Kota Tangerang & Klaster 3 (Tinggi) \\
+Kota Cilegon & Klaster 2 (Sedang) \\
+Kota Serang & Klaster 2 (Sedang) \\
+Kota Tangerang Selatan & Klaster 3 (Tinggi) \\
 \hline
 \end{tabular}
 \end{adjustbox}

diff --git a/landing-page/public/output_real/output_perm_statis.tex b/landing-page/public/output_real/output_perm_statis.tex
@@ -1,4 +1,4 @@
 % Generated by export_all.py (Permutation)
-\newcommand{\AppPValuePerm}{0.2168}
+\newcommand{\AppPValuePerm}{0.2178}
 \newcommand{\AppPermInterp}{Tidak Signifikan (Acak)}
 \newcommand{\AppLambdaObs}{229.2205}
